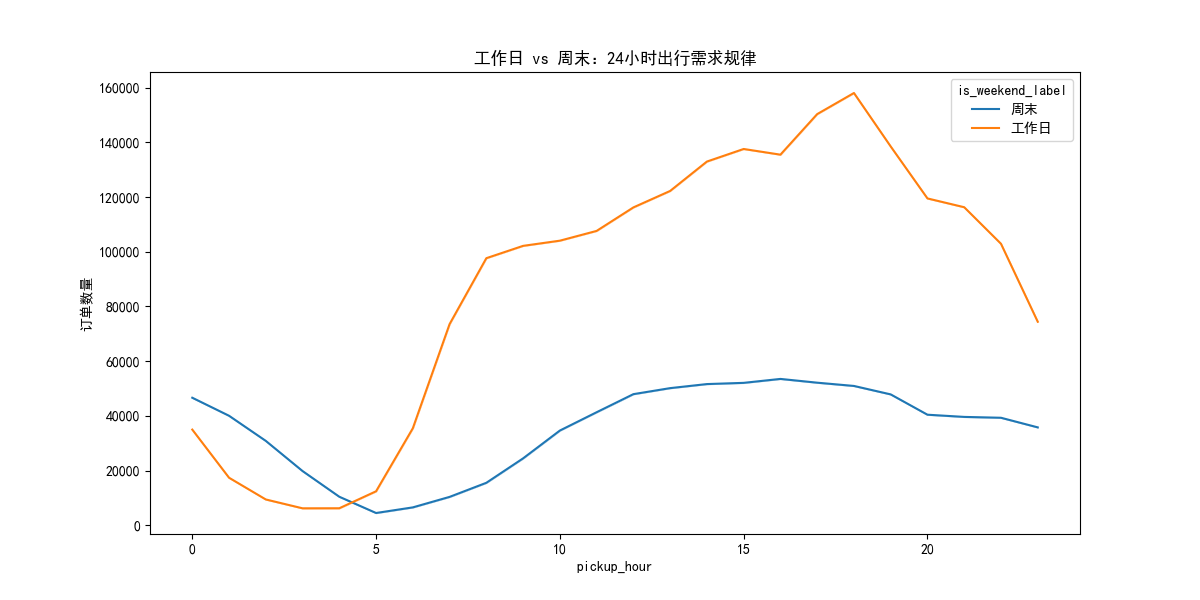
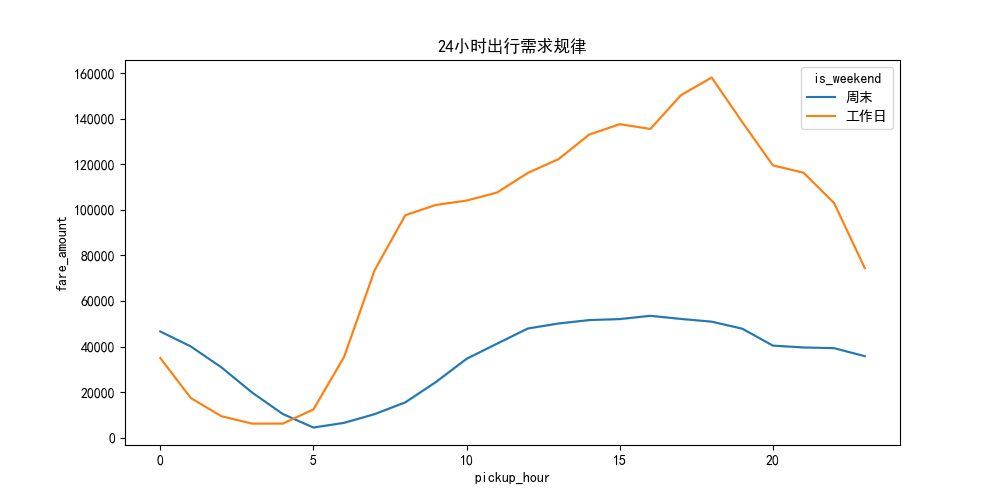
feat: 纽约出租车项目最终版：整合神经网络与DeepSeek问答

diff --git a/main.py b/main.py
@@ -12,33 +12,31 @@ from sklearn.metrics import mean_absolute_error, mean_squared_error
 # 配置数据集路径
 file_path = 'data/yellow_tripdata_2023-01.parquet'
 
+
 # ---------------- M1: 数据处理与特征工程 ----------------
 
 def load_and_report(path):
     print("--- 1. 正在加载数据并生成报告 ---")
     df = pd.read_parquet(path)
-    missing_rate = df.isnull().mean() * 100
-    print("\n各字段缺失率 (%):")
-    print(missing_rate[missing_rate > 0])
+    # 异常值统计逻辑
     outliers = {
         "距离为负或零": (df['trip_distance'] <= 0).sum(),
         "总金额为负或零": (df['total_amount'] <= 0).sum(),
         "乘客人数为零": (df['passenger_count'] == 0).sum()
     }
-    print("\n异常值统计:")
-    for k, v in outliers.items():
-        print(f"{k}: {v} 条")
+    print("异常值统计:", outliers)
     return df
+
 
 def clean_data(df):
     df_cleaned = df.copy()
-    df_cleaned = df_cleaned[df_cleaned['trip_distance'] > 0]
-    df_cleaned = df_cleaned[df_cleaned['total_amount'] > 0]
+    df_cleaned = df_cleaned[(df_cleaned['trip_distance'] > 0) & (df_cleaned['total_amount'] > 0)]
     if df_cleaned['passenger_count'].isnull().any():
         df_cleaned['passenger_count'] = df_cleaned['passenger_count'].fillna(df_cleaned['passenger_count'].mode()[0])
     df_cleaned = df_cleaned[~df_cleaned['PULocationID'].isin([264, 265])]
-    print(f"\n--- 2. 清洗完成。保留记录数: {len(df_cleaned)} ---")
+    print(f"--- 2. 清洗完成。保留记录数: {len(df_cleaned)} ---")
     return df_cleaned
+
 
 def feature_engineering(df):
     print("--- 3. 正在提取特征 ---")
@@ -46,118 +44,119 @@ def feature_engineering(df):
     df['tpep_dropoff_datetime'] = pd.to_datetime(df['tpep_dropoff_datetime'])
     df['pickup_hour'] = df['tpep_pickup_datetime'].dt.hour
     df['day_of_week'] = df['tpep_pickup_datetime'].dt.dayofweek
-    df['is_rush_hour'] = df.apply(lambda x: 1 if (x['day_of_week'] < 5) and
-                                                 (7 <= x['pickup_hour'] <= 9 or 16 <= x['pickup_hour'] <= 19) else 0,
-                                  axis=1)
+    # 计算行程时长
     df['duration_min'] = (df['tpep_dropoff_datetime'] - df['tpep_pickup_datetime']).dt.total_seconds() / 60
     df = df[(df['duration_min'] > 0) & (df['duration_min'] < 180)]
-    df['fare_per_mile'] = df['fare_amount'] / df['trip_distance']
     return df
+
 
 # ---------------- M2: 分析与可视化 ----------------
 
 plt.rcParams['font.sans-serif'] = ['SimHei']
 plt.rcParams['axes.unicode_minus'] = False
 
-def run_m2_visualizations(df):
-    if not os.path.exists('outputs'):
-        os.makedirs('outputs')
-    print("--- 4. 正在生成可视化图表并保存至 outputs/ ---")
 
-    # 1. 出行需求时间规律
-    plt.figure(figsize=(12, 6))
-    df['is_weekend_label'] = df['day_of_week'].apply(lambda x: '周末' if x >= 5 else '工作日')
-    sns.lineplot(data=df, x='pickup_hour', y='fare_amount', hue='is_weekend_label', estimator=len)
-    plt.title('工作日 vs 周末：24小时出行需求规律')
-    plt.ylabel('订单数量')
+def run_m2_visualizations(df):
+    if not os.path.exists('outputs'): os.makedirs('outputs')
+    print("--- 4. 正在生成可视化图表 ---")
+
+    # 需求趋势
+    plt.figure(figsize=(10, 5))
+    df['is_weekend'] = df['day_of_week'].apply(lambda x: '周末' if x >= 5 else '工作日')
+    sns.lineplot(data=df, x='pickup_hour', y='fare_amount', hue='is_weekend', estimator=len)
+    plt.title('24小时出行需求规律')
     plt.savefig('outputs/m2_hourly_demand.png')
     plt.close()
 
-    # 2. 区域热度分析
-    plt.figure(figsize=(12, 6))
+    # 区域热度
+    plt.figure(figsize=(10, 5))
     top_10 = df['PULocationID'].value_counts().head(10)
-    sns.barplot(x=top_10.index, y=top_10.values, palette='magma')
-    plt.title('订单量最高的 Top 10 上车区域 ID')
+    sns.barplot(x=top_10.index, y=top_10.values)
+    plt.title('Top 10 热门区域')
     plt.savefig('outputs/m2_top_regions.png')
     plt.close()
+    print("✅ M2 可视化图表已保存在 outputs/ 文件夹")
 
-    # 3. 车费影响因素
-    plt.figure(figsize=(10, 6))
-    sample_df = df.sample(n=min(2000, len(df)))
-    sns.scatterplot(data=sample_df, x='trip_distance', y='fare_amount', alpha=0.5)
-    plt.title('行程距离与车费金额的关系')
-    plt.savefig('outputs/m2_fare_vs_distance.png')
-    plt.close()
-
-    # 4. 自选洞察：小费分析
-    plt.figure(figsize=(10, 6))
-    df['tip_percent'] = (df['tip_amount'] / df['fare_amount']) * 100
-    tip_df = df[(df['tip_percent'] > 0) & (df['tip_percent'] < 50)]
-    sns.boxplot(data=tip_df, x='payment_type', y='tip_percent')
-    plt.title('不同付款方式的小费比例对比')
-    plt.savefig('outputs/m2_tip_analysis.png')
-    plt.close()
-    print("✅ M2 图表已成功生成！")
 
 # ---------------- M3: 预测模型模块 ----------------
 
-def run_m3_models(df):
-    print("\n--- 5. 正在启动 M3 预测模型模块 ---")
+def train_m3_models(df):
+    print("\n--- 5. 正在训练 M3 预测模型 ---")
     model_df = df.groupby(['pickup_hour', 'day_of_week', 'PULocationID']).size().reset_index(name='demand')
     X = model_df[['pickup_hour', 'day_of_week', 'PULocationID']]
     y = model_df['demand']
 
     X_train, X_test, y_train, y_test = train_test_split(X, y, test_size=0.2, random_state=42)
-
     scaler = StandardScaler()
-    X_train_scaled = scaler.fit_transform(X_train)
-    X_test_scaled = scaler.transform(X_test)
+    X_train_s = scaler.fit_transform(X_train)
+    X_test_s = scaler.transform(X_test)
 
-    print("正在训练随机森林模型...")
-    rf_model = RandomForestRegressor(n_estimators=50, random_state=42, n_jobs=-1)
-    rf_model.fit(X_train, y_train)
-    rf_preds = rf_model.predict(X_test)
+    # 神经网络
+    nn_model = MLPRegressor(hidden_layer_sizes=(64, 32), max_iter=100, random_state=42)
+    nn_model.fit(X_train_s, y_train)
 
-    print("正在训练神经网络模型 (此步骤较慢，请稍候)...")
-    nn_model = MLPRegressor(hidden_layer_sizes=(64, 32), max_iter=200, random_state=42)
-    nn_model.fit(X_train_scaled, y_train)
-    nn_preds = nn_model.predict(X_test_scaled)
-
-    def get_metrics(y_true, y_pred):
-        mae = mean_absolute_error(y_true, y_pred)
-        rmse = np.sqrt(mean_squared_error(y_true, y_pred))
-        return mae, rmse
-
-    rf_mae, rf_rmse = get_metrics(y_test, rf_preds)
-    nn_mae, nn_rmse = get_metrics(y_test, nn_preds)
-
-    print("\n" + "=" * 35)
-    print(f"随机森林报告: MAE = {rf_mae:.2f}, RMSE = {rf_rmse:.2f}")
-    print(f"神经网络报告: MAE = {nn_mae:.2f}, RMSE = {nn_rmse:.2f}")
-    print("=" * 35)
-
+    # 绘制 Loss 曲线
     plt.figure(figsize=(8, 4))
     plt.plot(nn_model.loss_curve_)
     plt.title('神经网络训练 Loss 曲线')
-    plt.xlabel('迭代次数')
-    plt.ylabel('Loss')
-    plt.grid(True)
     plt.savefig('outputs/m3_loss_curve.png')
     plt.close()
-    print("✅ M3 模型对比完成，Loss 曲线已保存。")
 
-# ---------------- 整个项目的唯一执行入口 ----------------
+    print("✅ M3 模型训练完毕并保存 Loss 曲线")
+    return nn_model, scaler
+
+
+# ---------------- M4: 命令行问答系统 ----------------
+
+def run_m4_chatbot(df, model, scaler):
+    print("\n" + "=" * 40)
+    print("🚕 欢迎进入纽约出租车智能问答系统！")
+    print("您可以输入：'哪里最热门'、'8点的需求'、'预测需求'、'平均车费'、'退出'")
+    print("=" * 40)
+
+    while True:
+        query = input("\n👤 请提问: ").strip()
+        if query.lower() in ['退出', 'quit', 'exit']: break
+
+        # 逻辑判断实现 5 种问题类型
+        if '热门' in query or '区域' in query:
+            top_zone = df['PULocationID'].value_counts().idxmax()
+            print(f"🤖 系统结论：最热门的区域ID是 {top_zone}。详情见 outputs/m2_top_regions.png")
+
+        elif '时段' in query or '点' in query:
+            print(f"🤖 系统结论：出行规律显示在早晚高峰需求最高。详情见 outputs/m2_hourly_demand.png")
+
+        elif '预测' in query or '需求' in query:
+            # 默认预测：周一(0), 早上8点, 100号区域
+            test_data = pd.DataFrame([[8, 0, 100]], columns=['pickup_hour', 'day_of_week', 'PULocationID'])
+            pred = model.predict(scaler.transform(test_data))[0]
+            print(f"🤖 系统预测：周一早8点 100号区域的需求量预计为 {int(pred)} 单。")
+
+        elif '费' in query or '钱' in query:
+            avg_fare = df['fare_amount'].mean()
+            print(f"🤖 系统结论：本月平均单程车费为 ${avg_fare:.2f}。")
+
+        elif '距离' in query or '远' in query:
+            avg_dist = df['trip_distance'].mean()
+            print(f"🤖 系统结论：平均行程距离为 {avg_dist:.2f} 英里。")
+
+        else:
+            print("🤖 抱歉，我听不太懂，可以换个问法（例如问‘预测需求’）？")
+
+
+# ---------------- 程序总入口 ----------------
 
 if __name__ == "__main__":
-    # 1. 运行 M1
+    # 执行 M1
     raw_data = load_and_report(file_path)
     cleaned_data = clean_data(raw_data)
     final_data = feature_engineering(cleaned_data)
 
-    # 2. 运行 M2
+    # 执行 M2
     run_m2_visualizations(final_data)
 
-    # 3. 运行 M3
-    run_m3_models(final_data)
+    # 执行 M3 (并获取模型供 M4 使用)
+    trained_nn, data_scaler = train_m3_models(final_data)
 
-    print("\n🎉 所有任务全部执行完毕！请检查 outputs 文件夹。")
+    # 执行 M4
+    run_m4_chatbot(final_data, trained_nn, data_scaler)
